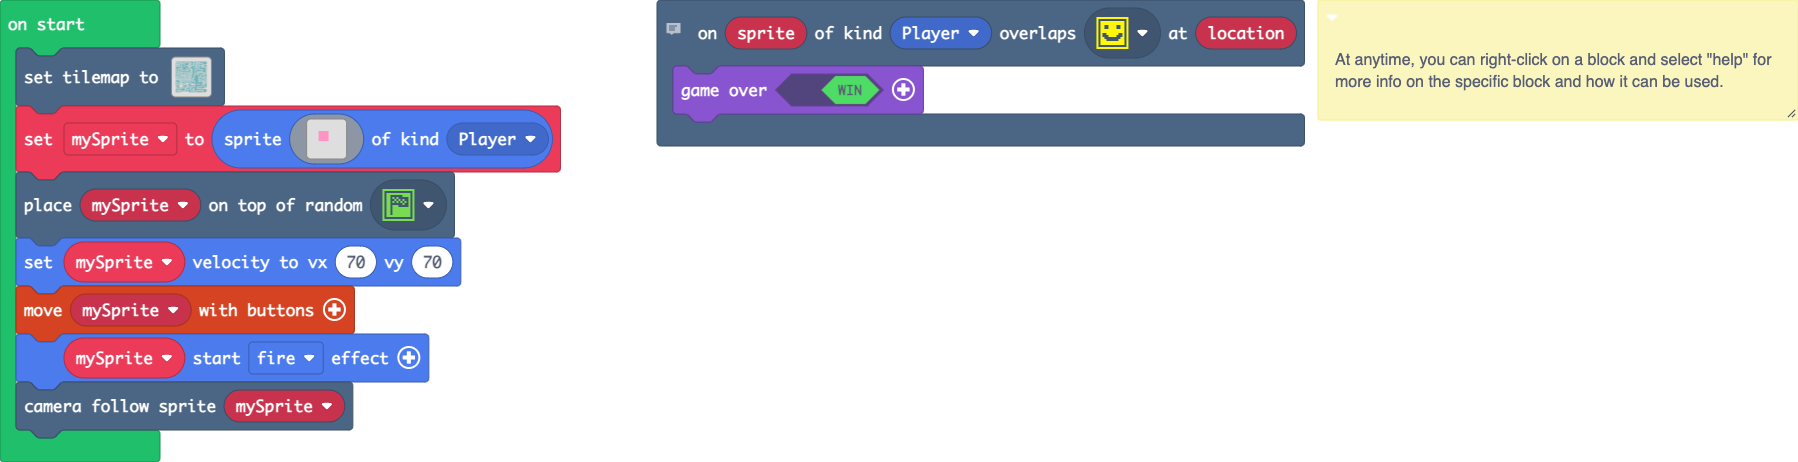
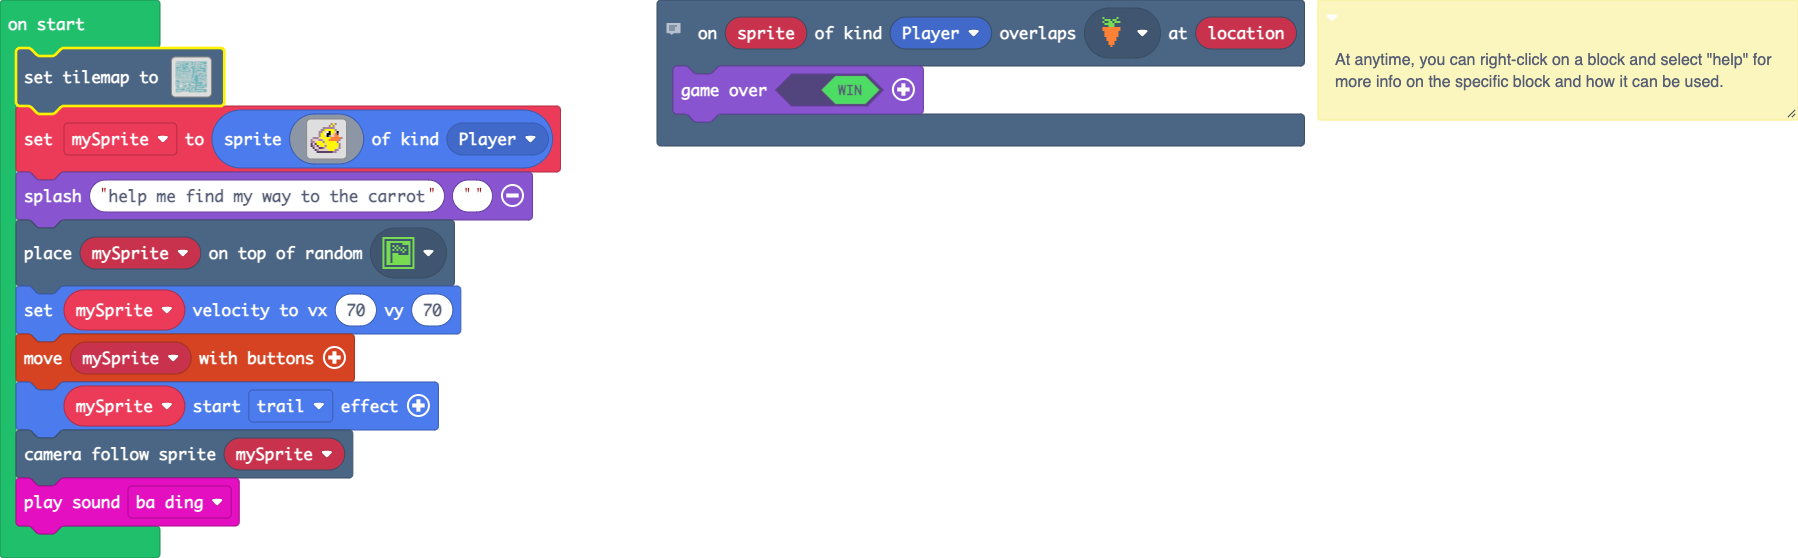
Update main.blocks, main.ts, tilemap.g.jres, tilemap.g.ts

Changed region(s): [[0.0, 0.0303, 0.3115, 0.9697], [0.3426, 0.0303, 1.0, 0.3333]]

diff --git a/tilemap.g.ts b/tilemap.g.ts
@@ -6,9 +6,49 @@ namespace myTiles {
     export const tile1 = image.ofBuffer(hex``);
     //% fixedInstance jres blockIdentity=images._tile
     export const tile2 = image.ofBuffer(hex``);
+    //% fixedInstance jres blockIdentity=images._tile
+    export const tile3 = image.ofBuffer(hex``);
 
     helpers._registerFactory("tilemap", function(name: string) {
         switch(helpers.stringTrim(name)) {
+            case "level2":
+            case "level2":return tiles.createTilemap(hex`1000100000000000000000000000000000000000000000000000000000000000000000000000000000000000000000000000000000000000000000000000000000000000000000000000000000000000000000000000000000000000000000000000000000000000000000000000000000000000000000000000000000000000000000000000000000000000000000000000000000000000000000000000000000000000000000000000000000000000000000000000000000000000000000000000000000000000000000000000000000000000000000000000000000000000000000000000000000000000000000000000000000000000000000000000000000000000`, img`
+. . . . . . . . . . . . . . . . 
+. . . . . . . . . . . . . . . . 
+. . . . . . . . . . . . . . . . 
+. . . . . . . . . . . . . . . . 
+. . . . . . . . . . . . . . . . 
+. . . . . . . . . . . . . . . . 
+. . . . . . . . . . . . . . . . 
+. . . . . . . . . . . . . . . . 
+. . . . . . . . . . . . . . . . 
+. . . . . . . . . . . . . . . . 
+. . . . . . . . . . . . . . . . 
+. . . . . . . . . . . . . . . . 
+. . . . . . . . . . . . . . . . 
+. . . . . . . . . . . . . . . . 
+. . . . . . . . . . . . . . . . 
+. . . . . . . . . . . . . . . . 
+`, [myTiles.transparency16], TileScale.Sixteen);
+            case "level3":
+            case "level3":return tiles.createTilemap(hex`1000100000000000000000000000000000000000000000000000000000000000000000000000000000000000000000000000000000000000000000000000000000000000000000000000000000000000000000000000000000000000000000000000000000000000000000000000000000000000000000000000000000000000000000000000000000000000000000000000000000000000000000000000000000000000000000000000000000000000000000000000000000000000000000000000000000000000000000000000000000000000000000000000000000000000000000000000000000000000000000000000000000000000000000000000000000000000`, img`
+. . . . . . . . . . . . . . . . 
+. . . . . . . . . . . . . . . . 
+. . . . . . . . . . . . . . . . 
+. . . . . . . . . . . . . . . . 
+. . . . . . . . . . . . . . . . 
+. . . . . . . . . . . . . . . . 
+. . . . . . . . . . . . . . . . 
+. . . . . . . . . . . . . . . . 
+. . . . . . . . . . . . . . . . 
+. . . . . . . . . . . . . . . . 
+. . . . . . . . . . . . . . . . 
+. . . . . . . . . . . . . . . . 
+. . . . . . . . . . . . . . . . 
+. . . . . . . . . . . . . . . . 
+. . . . . . . . . . . . . . . . 
+. . . . . . . . . . . . . . . . 
+`, [myTiles.transparency16], TileScale.Sixteen);
             case "level1":
             case "level1":return tiles.createTilemap(hex`3200320002020202020202020202020202020202020202020202020202020202020202020202020202020202020202020202020202020203010101010101010101010101010101010101010101010101010101020101010101010101010101010101010101010102020202020202010202020201010102020202020202020202020101010102010102020202020201010101010101010101010202010101010201020101020202010201010101010101010102010102010201010201020101020202020202020101010101020201020201020102010102010101020101010101010202020201010201020101020102010102010101010101010101010102020102020102010201010201010102010101010101020202020101020102010102010201010201010102020202020202020202010202020201020101020101010201010101010102010101010101010201010201020101020101010101010101010101020201010101010102010102010101020101020202020201010202020202020101020102010102020202020202020201010102020202020202020201010201010102010101010101020202020101010101010102010201010201010101010101010101010202010101010101010101020101010201010101010102020202010101010101010201020101020101010202020202020201020201010101010101020102010101010101010201010201010101010101020202020102010102010101020101010101020102020101010102020202010201010101010101020101020101010101010101010101010201010201010101010101010102010202010102010201010201020101010101010102010102020202020201010101010101020101020101010101010101010201020201010201020101020102010101010101010201010101010201020101010202020202010102020202020201010101020102020101020102010102010202020202020202020202020101020102010101020101010101010101010101020101010102010202010102010201010201010101010101010101010101010102010201010102010101010101010101010102010101010201020201010201020101020101010101010101010101010101010201020101010201010202020202020202020201010101020102020101020102020202010202020202020202020202020202020102010101020101010101010101010101010101010102010202010102010101010201020101010101010101010101010101010201010102010102020202020202020202020202010201020201010202020201020102010102020202020202020202020202020101010201010101010101010101010101010201020102020101020101020102010201010101010101010101010102010102010101020202020202020101010101010101020202010202010102010102010201020202020202020201020202010201020101010102010101010102010101020202020102010101020201010201010201020101010101010101020101010201020102010101020201010101010201010102010101010201010102020101020101020102020202020202020102020201020102010201010102010101010101020101010201010101020101010202010202010102010101010101010102010101020102010201020101010201010101010102010202020101010102010201020201020101010202020202020202020202020102010201020102010101020101010101010201020101010102010201020102020102020201010101010101010101010102010201020102010201010102010101010101020102010102020201020102010202010101020202020202020202020202020201020202010201020102020201010101010102010201010201010102010201020202020101010101010101010101010101020101010101020102010201010101010101010201020101020101010201020102020102020202020202020202020202020102020202020202010201020101010101010101020102020102010101020102010202010101010101020101010101010101010101010101010101020102010101010101010102010102010201010102010201020201010101010102010202020202020202020202020202020202010202020201010101010201010201020202010201020102020101010101010201020101010101010101010101010101010101010101020101010101020202020101010201020102010202010202020101020102010101010101010101010101010101010101010102010101010101010101010101020102010201020201020101010102010202010202020202020202020202020202020201010201010101010101010101010102010202020102020102010102020201020201010101010102020202010101010101010101020101010101010101010101010201020101010202010201010201010102020102020202010101010201010102020202020202010102020202020201010202020102010101020201020202020102020202010201010202020201020101010202020202020201010101010101010101020101010201010102020101010101010202020201020101010101020102010101010101010101020101010101010101010102010101020101010202010101010102020202020102010101010102010202020101010101010102010101010101010101010201010102010101020202020101010202020202010201010201010201010102010202020202020201010102020202020202020101010201020102020101010101010101010101020101020102020202010201020101010101010101010201010101010101010101020102010202020202020202020202020202010102010201010101020102010101010101010101020101010101010101010102010202020201010101010101010101010101010201020101010102010201010202020101010102020202020202020202020202020202020101010101010101010101010101020202010202020201020101020102010101010101010101010101010101010101010202010102020202020202010101010101010101020101010102010102010201010101010101010101010101010101010101020201010201010101010201010202020202010102010101010201010201020101010202020202020202020202010101010102020101020202020201020101010101010101010202010101020202020102020202020101010101010101010201010101010202010101010101010102020202020202020202020201010101010101010101010101010101010101010101020101010104020202020202020202020202020202020202020202020202020202020202020202020202020202020202020202020202020202`, img`
 22222222222222222222222222222222222222222222222222
@@ -61,45 +101,7 @@ namespace myTiles {
 2..22222.2.........22...2222.22222.........2.....2
 2........222222222222......................2.....2
 22222222222222222222222222222222222222222222222222
-`, [myTiles.transparency16,sprites.castle.tileDarkGrass2,sprites.builtin.brick,myTiles.tile1,myTiles.tile2], TileScale.Sixteen);
-            case "level2":
-            case "level2":return tiles.createTilemap(hex`1000100000000000000000000000000000000000000000000000000000000000000000000000000000000000000000000000000000000000000000000000000000000000000000000000000000000000000000000000000000000000000000000000000000000000000000000000000000000000000000000000000000000000000000000000000000000000000000000000000000000000000000000000000000000000000000000000000000000000000000000000000000000000000000000000000000000000000000000000000000000000000000000000000000000000000000000000000000000000000000000000000000000000000000000000000000000000`, img`
-. . . . . . . . . . . . . . . . 
-. . . . . . . . . . . . . . . . 
-. . . . . . . . . . . . . . . . 
-. . . . . . . . . . . . . . . . 
-. . . . . . . . . . . . . . . . 
-. . . . . . . . . . . . . . . . 
-. . . . . . . . . . . . . . . . 
-. . . . . . . . . . . . . . . . 
-. . . . . . . . . . . . . . . . 
-. . . . . . . . . . . . . . . . 
-. . . . . . . . . . . . . . . . 
-. . . . . . . . . . . . . . . . 
-. . . . . . . . . . . . . . . . 
-. . . . . . . . . . . . . . . . 
-. . . . . . . . . . . . . . . . 
-. . . . . . . . . . . . . . . . 
-`, [myTiles.transparency16], TileScale.Sixteen);
-            case "level3":
-            case "level3":return tiles.createTilemap(hex`1000100000000000000000000000000000000000000000000000000000000000000000000000000000000000000000000000000000000000000000000000000000000000000000000000000000000000000000000000000000000000000000000000000000000000000000000000000000000000000000000000000000000000000000000000000000000000000000000000000000000000000000000000000000000000000000000000000000000000000000000000000000000000000000000000000000000000000000000000000000000000000000000000000000000000000000000000000000000000000000000000000000000000000000000000000000000000`, img`
-. . . . . . . . . . . . . . . . 
-. . . . . . . . . . . . . . . . 
-. . . . . . . . . . . . . . . . 
-. . . . . . . . . . . . . . . . 
-. . . . . . . . . . . . . . . . 
-. . . . . . . . . . . . . . . . 
-. . . . . . . . . . . . . . . . 
-. . . . . . . . . . . . . . . . 
-. . . . . . . . . . . . . . . . 
-. . . . . . . . . . . . . . . . 
-. . . . . . . . . . . . . . . . 
-. . . . . . . . . . . . . . . . 
-. . . . . . . . . . . . . . . . 
-. . . . . . . . . . . . . . . . 
-. . . . . . . . . . . . . . . . 
-. . . . . . . . . . . . . . . . 
-`, [myTiles.transparency16], TileScale.Sixteen);
+`, [myTiles.transparency16,sprites.castle.tileDarkGrass2,sprites.builtin.brick,myTiles.tile1,myTiles.tile3], TileScale.Sixteen);
         }
         return null;
     })
@@ -111,6 +113,8 @@ namespace myTiles {
             case "tile1":return tile1;
             case "myTile0":
             case "tile2":return tile2;
+            case "myTile1":
+            case "tile3":return tile3;
         }
         return null;
     })

diff --git a/main.ts b/main.ts
@@ -2,30 +2,32 @@
  * At anytime, you can right-click on a block and select "help" for more info on the specific block and how it can be used.
  */
 // To comment in your JS, use the double /
-scene.onOverlapTile(SpriteKind.Player, assets.tile`myTile0`, function (sprite, location) {
+scene.onOverlapTile(SpriteKind.Player, assets.tile`myTile1`, function (sprite, location) {
     game.over(true)
 })
 tiles.setTilemap(tilemap`level1`)
 let mySprite = sprites.create(img`
-    . . . . . . . . . . . . . . . . 
-    . . . . . . . . . . . . . . . . 
-    . . . . . . . . . . . . . . . . 
-    . . . . . . . . . . . . . . . . 
-    . . . . 3 3 3 3 3 . . . . . . . 
-    . . . . 3 3 3 3 3 . . . . . . . 
-    . . . . 3 3 3 3 3 . . . . . . . 
-    . . . . 3 3 3 3 3 . . . . . . . 
-    . . . . 3 3 3 3 3 . . . . . . . 
-    . . . . . . . . . . . . . . . . 
-    . . . . . . . . . . . . . . . . 
-    . . . . . . . . . . . . . . . . 
-    . . . . . . . . . . . . . . . . 
-    . . . . . . . . . . . . . . . . 
-    . . . . . . . . . . . . . . . . 
+    . . . . . . . . . . b 5 b . . . 
+    . . . . . . . . . b 5 b . . . . 
+    . . . . . . b b b b b b . . . . 
+    . . . . . b b 5 5 5 5 5 b . . . 
+    . . . . b b 5 d 1 f 5 5 d f . . 
+    . . . . b 5 5 1 f f 5 d 4 c . . 
+    . . . . b 5 5 d f b d d 4 4 . . 
+    . b b b d 5 5 5 5 5 4 4 4 4 4 b 
+    b d d d b b d 5 5 4 4 4 4 4 b . 
+    b b d 5 5 5 b 5 5 5 5 5 5 b . . 
+    c d c 5 5 5 5 d 5 5 5 5 5 5 b . 
+    c b d c d 5 5 b 5 5 5 5 5 5 b . 
+    . c d d c c b d 5 5 5 5 5 d b . 
+    . . c b d d d d d 5 5 5 b b . . 
+    . . . c c c c c c c c b b . . . 
     . . . . . . . . . . . . . . . . 
     `, SpriteKind.Player)
+game.splash("help me find my way to the carrot", "")
 tiles.placeOnRandomTile(mySprite, assets.tile`myTile`)
 mySprite.setVelocity(70, 70)
 controller.moveSprite(mySprite)
-mySprite.startEffect(effects.fire)
+mySprite.startEffect(effects.trail)
 scene.cameraFollowSprite(mySprite)
+music.baDing.play()
